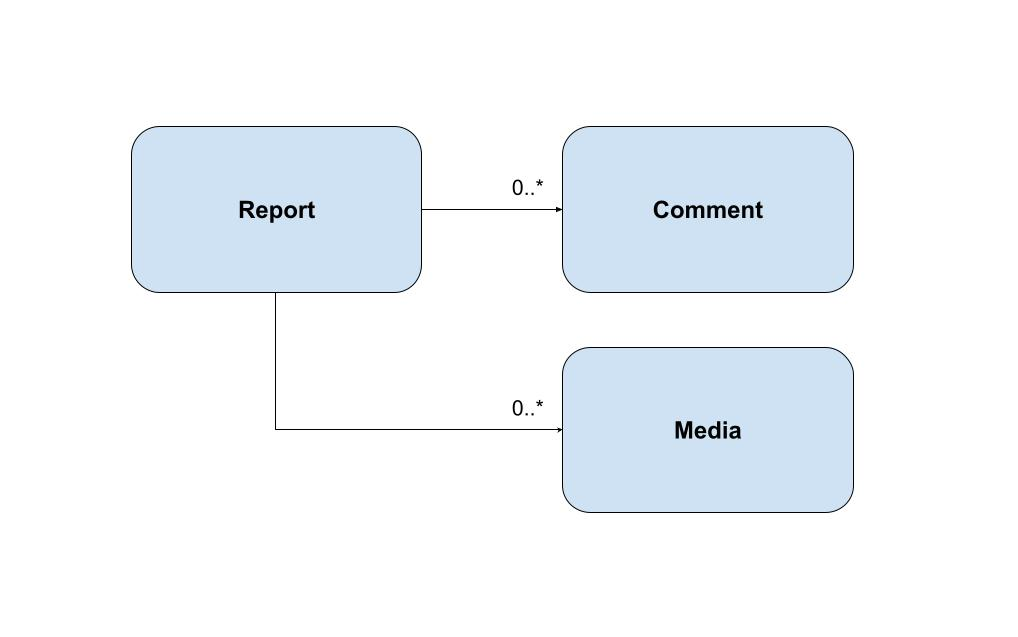
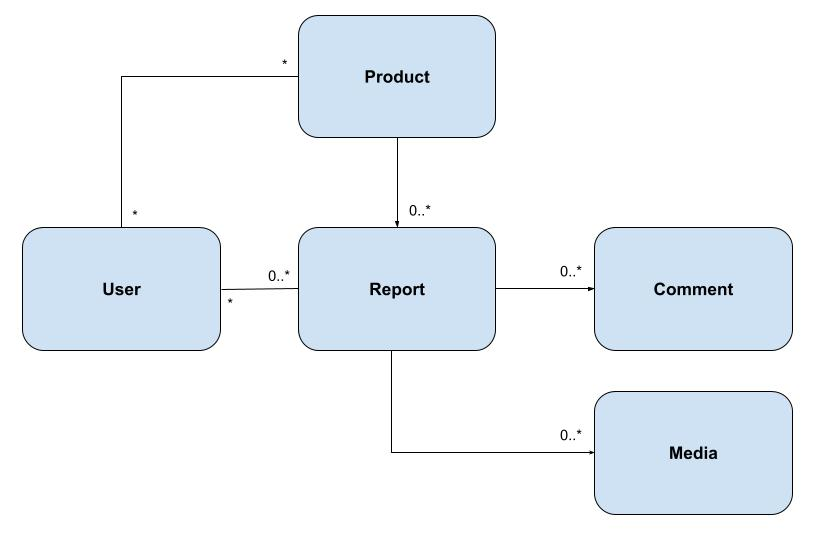
update data model and add other service methods

diff --git a/design-doc.md b/design-doc.md
@@ -1,6 +1,6 @@
 # Bug Tracker
 
-*Last updated: 18/11/2023*
+_Last updated: 21/11/2023_
 
 ## Description
 
@@ -36,67 +36,66 @@ The following section discusses the initial system design for Bug Tracker.
 
 ### Data Models
 
-TODO: to update diagram to account for other entities
 ![entity relationship diagram](./assets/data-model.jpg)
 
 #### Account (~0.148KB)
 
-|Key | Field | Type |  Max field Size | Explanation |Required |
-|--- | ------| -----| -------- | -------------- | ----------- |
-|PK| username | string | 64 | username ported from external system. Used as an id for the document | Yes |
-|| display_name | string | 64 | display name rendered for the UI | Yes |
-|| reward_points | int || points accumulated by the user from certain actions in the gamification feature. Defaults to `0` | Yes |
-|| num_reports_created | int || number of reports submitted by the user. Defaults to `0` | Yes |
-|| num_reports_fixed | int || number of bug/ux-issues fixed by the developer. Defaults to `0` | Yes |
+| Key | Field               | Type   | Max field Size | Explanation                                                                                      | Required |
+| --- | ------------------- | ------ | -------------- | ------------------------------------------------------------------------------------------------ | -------- |
+| PK  | username            | string | 64             | username ported from external system. Used as an id for the document                             | Yes      |
+|     | display_name        | string | 64             | display name rendered for the UI                                                                 | Yes      |
+|     | reward_points       | int    |                | points accumulated by the user from certain actions in the gamification feature. Defaults to `0` | Yes      |
+|     | num_reports_created | int    |                | number of reports submitted by the user. Defaults to `0`                                         | Yes      |
+|     | num_reports_fixed   | int    |                | number of bug/ux-issues fixed by the developer. Defaults to `0`                                  | Yes      |
 
 #### Report (~1.152KB)
 
-|Key | Field | Type |  Max field Size | Explanation |Required |
-|--- | ------| -----| -------- | -------------- | ----------- |
-| PK | id | string | 64 | id of document | Yes |
-|FK| product_id | string | 64 | product key used for consolidation and filtering | Yes |
-|| type | string | 16 | set of report type. Set to one of the following types: `bug`, `ux_issue`, `feature_request`, `others` | Yes
-|| title | string | 64 | user input; title of the report | Yes |
-|| description | string | 512 | user input description of the report. Supports rich text for indentations, bullet points etc | Yes |
-|| external_link | string | 256 | optional URL string to link to external tools such as Jira/Gitlab etc | No |
-|| status | string | 16 | set of report statuses. Set to one of the following statuses: `submitted`, `triaged`, `fixed`, `closed`, `fixing`. `fixed` status will act as `implemented` for feature requests| Yes |
-|| created_date | string | 32 | report created datetime stored in ISO format | Yes |
-|| fixed_date | string | 32 | datetime in ISO format; set when status is changed to `fixed`. Used for analytical purposes how see how long it takes to fix an issue| No |
-|| expiration_date | string | 32 | datetime in ISO format; set when status is changed to `closed`. When a report is past this expiration date, this document (and other related documents) are deleted from the database | No |
-|| reporter | string | 32 | username of the user that created the report | Yes |
-|| assignee | string | 32 | username of the developer who is responsible for the report. Used for leaderboard purposes | No |
+| Key | Field           | Type   | Max field Size | Explanation                                                                                                                                                                           | Required |
+| --- | --------------- | ------ | -------------- | ------------------------------------------------------------------------------------------------------------------------------------------------------------------------------------- | -------- |
+| PK  | id              | string | 64             | id of document                                                                                                                                                                        | Yes      |
+| FK  | product_id      | string | 64             | product key used for consolidation and filtering                                                                                                                                      | Yes      |
+|     | type            | string | 16             | set of report type. Set to one of the following types: `bug`, `ux_issue`, `feature_request`, `others`                                                                                 | Yes      |
+|     | title           | string | 64             | user input; title of the report                                                                                                                                                       | Yes      |
+|     | description     | string | 512            | user input description of the report. Supports rich text for indentations, bullet points etc                                                                                          | Yes      |
+|     | external_link   | string | 256            | optional URL string to link to external tools such as Jira/Gitlab etc                                                                                                                 | No       |
+|     | status          | string | 16             | set of report statuses. Set to one of the following statuses: `submitted`, `triaged`, `fixed`, `closed`, `fixing`. `fixed` status will act as `implemented` for feature requests      | Yes      |
+|     | created_date    | string | 32             | report created datetime stored in ISO format                                                                                                                                          | Yes      |
+|     | fixed_date      | string | 32             | datetime in ISO format; set when status is changed to `fixed`. Used for analytical purposes how see how long it takes to fix an issue                                                 | No       |
+|     | expiration_date | string | 32             | datetime in ISO format; set when status is changed to `closed`. When a report is past this expiration date, this document (and other related documents) are deleted from the database | No       |
+|     | reporter        | string | 32             | username of the user that created the report                                                                                                                                          | Yes      |
+|     | assignee        | string | 32             | username of the developer who is responsible for the report. Used for leaderboard purposes                                                                                            | No       |
 
 #### Comment (~0.448KB)
 
-|Key | Field | Type |  Max field Size | Explanation |Required |
-|--- | ------| -----| -------- | -------------- | ----------- |
-|PK| id | string | 64 | id of the document | Yes |
-|| author | string | 32 | username of the comment author | Yes |
-|| created_date | string | 32 | datetime in ISO string, comment date | Yes |
-|| text | string | 256 | comment | Yes |
-|| is_edited | boolean || sets to `true` if the `text` field is edited. Defaults to `false` | Yes |
-|FK| report_id | string | 64 | stores reference to the report | Yes |
+| Key | Field        | Type    | Max field Size | Explanation                                                       | Required |
+| --- | ------------ | ------- | -------------- | ----------------------------------------------------------------- | -------- |
+| PK  | id           | string  | 64             | id of the document                                                | Yes      |
+|     | author       | string  | 32             | username of the comment author                                    | Yes      |
+|     | created_date | string  | 32             | datetime in ISO string, comment date                              | Yes      |
+|     | text         | string  | 256            | comment                                                           | Yes      |
+|     | is_edited    | boolean |                | sets to `true` if the `text` field is edited. Defaults to `false` | Yes      |
+| FK  | report_id    | string  | 64             | stores reference to the report                                    | Yes      |
 
 #### Media (~0.384KB)
 
-|Key | Field | Type |  Max field Size | Explanation |Required |
-|--- | ------| -----| -------- | -------------- | ----------- |
-|PK| id | string | 64 | id of the document | Yes |
-|| file_name | string | 64 | name of the media file, user input | Yes
-|| media_type | string | 16 | Type of the media, either `video` or `image` | Yes |
-|| upload_date | string | 32 | datetime in ISO string, when the media is uploaded | Yes |
-|| src_path | string | 128 | directory where this media is stored | Yes |
-|| height | int || height of the media | Yes |
-|| width | int || width of the media | Yes |
-|FK| report_id | string | 64 | stores reference to the report | Yes |
+| Key | Field       | Type   | Max field Size | Explanation                                        | Required |
+| --- | ----------- | ------ | -------------- | -------------------------------------------------- | -------- |
+| PK  | id          | string | 64             | id of the document                                 | Yes      |
+|     | file_name   | string | 64             | name of the media file, user input                 | Yes      |
+|     | media_type  | string | 16             | Type of the media, either `video` or `image`       | Yes      |
+|     | upload_date | string | 32             | datetime in ISO string, when the media is uploaded | Yes      |
+|     | src_path    | string | 128            | directory where this media is stored               | Yes      |
+|     | height      | int    |                | height of the media                                | Yes      |
+|     | width       | int    |                | width of the media                                 | Yes      |
+| FK  | report_id   | string | 64             | stores reference to the report                     | Yes      |
 
 #### Product (~0.384KB)
 
-|Key | Field | Type |  Max field Size | Explanation |Required |
-|--- | ------| -----| -------- | -------------- | ----------- |
-|PK| id | string | 64 | id of the document | Yes|
-|| name | string | 64 | product name | Yes|
-|| description | string | 256 | description of product | No |
+| Key | Field       | Type   | Max field Size | Explanation            | Required |
+| --- | ----------- | ------ | -------------- | ---------------------- | -------- |
+| PK  | id          | string | 64             | id of the document     | Yes      |
+|     | name        | string | 64             | product name           | Yes      |
+|     | description | string | 256            | description of product | No       |
 
 ### Users & Traffic Estimates
 
@@ -109,7 +108,7 @@ TODO: to update diagram to account for other entities
 - Assuming each video is 1920x1080 and ~10seconds, it should be 1mb per submitted video. Each image should be 50KB
 - Each month, (10 users x 1 report x (25% x 1MB)) + (10 users x 1 report x (50% x 0.05MB)) = 2.5MB + 0.25MB = **2.75MB of media storage per month**
 - Assuming each report has 3 comments, each report will take up: 1.152KB + (3 x 0.448KB) = 2.496KB
-- Each month, with an average of 10 reports with the accompanied media, (10  x 2.496KB) + (10 x 25% x 1 video x 0.384KB) + (10 x 50% x 3 images x 0.384KB) = **31.68KB of document storage per month**
+- Each month, with an average of 10 reports with the accompanied media, (10 x 2.496KB) + (10 x 25% x 1 video x 0.384KB) + (10 x 50% x 3 images x 0.384KB) = **31.68KB of document storage per month**
 - Total space needed per month: **2.781MB / month**
 - Total space needed per year: 2.756MB x 12 = **~33.4MB / year**
 
@@ -119,11 +118,11 @@ TODO: to update diagram to account for other entities
 
 Gamification feature is introduced to encourage users to report bugs, suggest product improvements and to enhance client-developer collaboration to build better products. The following table shows the proposed point system:
 
-|Action | Points Rewarded | Affected users |
-|--- | ------| -----|
-| submitted a report | 1 | reporter |
-| bug/ux issue report status changed to `fixed` | 3 | reporter, assignee |
-| feature request status changed to `fixed` | 2 | reporter, assignee |
+| Action                                        | Points Rewarded | Affected users     |
+| --------------------------------------------- | --------------- | ------------------ |
+| submitted a report                            | 1               | reporter           |
+| bug/ux issue report status changed to `fixed` | 3               | reporter, assignee |
+| feature request status changed to `fixed`     | 2               | reporter, assignee |
 
 When the action on the table is performed, the backend serivce allocate points to the `Account` table under `reward_points`
 
@@ -142,7 +141,7 @@ The report clean-up feature deletes documents and attached media objects past th
 #### Report clean-up service methods
 
 - getExpiredReports() -> Report[]
-- deleteReport(report_id: string) -> void
+- deleteExpiredReports() -> Report[]
 
 ### 3. Report Service
 
@@ -152,8 +151,11 @@ Handles all report related endpoints.
 
 - createReport(report: Report) -> Report
 - updateReport(report: Report) -> void
-- addComment(comment: Comment) -> Comment
-- updateComment(comment: Comment) -> void
+- deleteReport(report_id: string) -> void
+- getReportsByProduct(product_id: string) -> Report[]
+- getReportsByReporter(account_id: string) -> Report[]
+- addReportComment(comment: Comment) -> Comment
+- updateReportComment(comment: Comment) -> void
 
 ### 4. Media Service
 
@@ -163,10 +165,11 @@ The media service handles uploading and deletion of media related features. The 
 
 - uploadMedia(media: Media, dir_path: string) -> string (src_path)
 - removeMedia(media_id: string) -> void
+- getMedia(media_id: string) -> Media
 
 ### 5. Product Service
 
-The product service handles product related features. 
+The product service handles product related features.
 
 #### Product service methods
 
